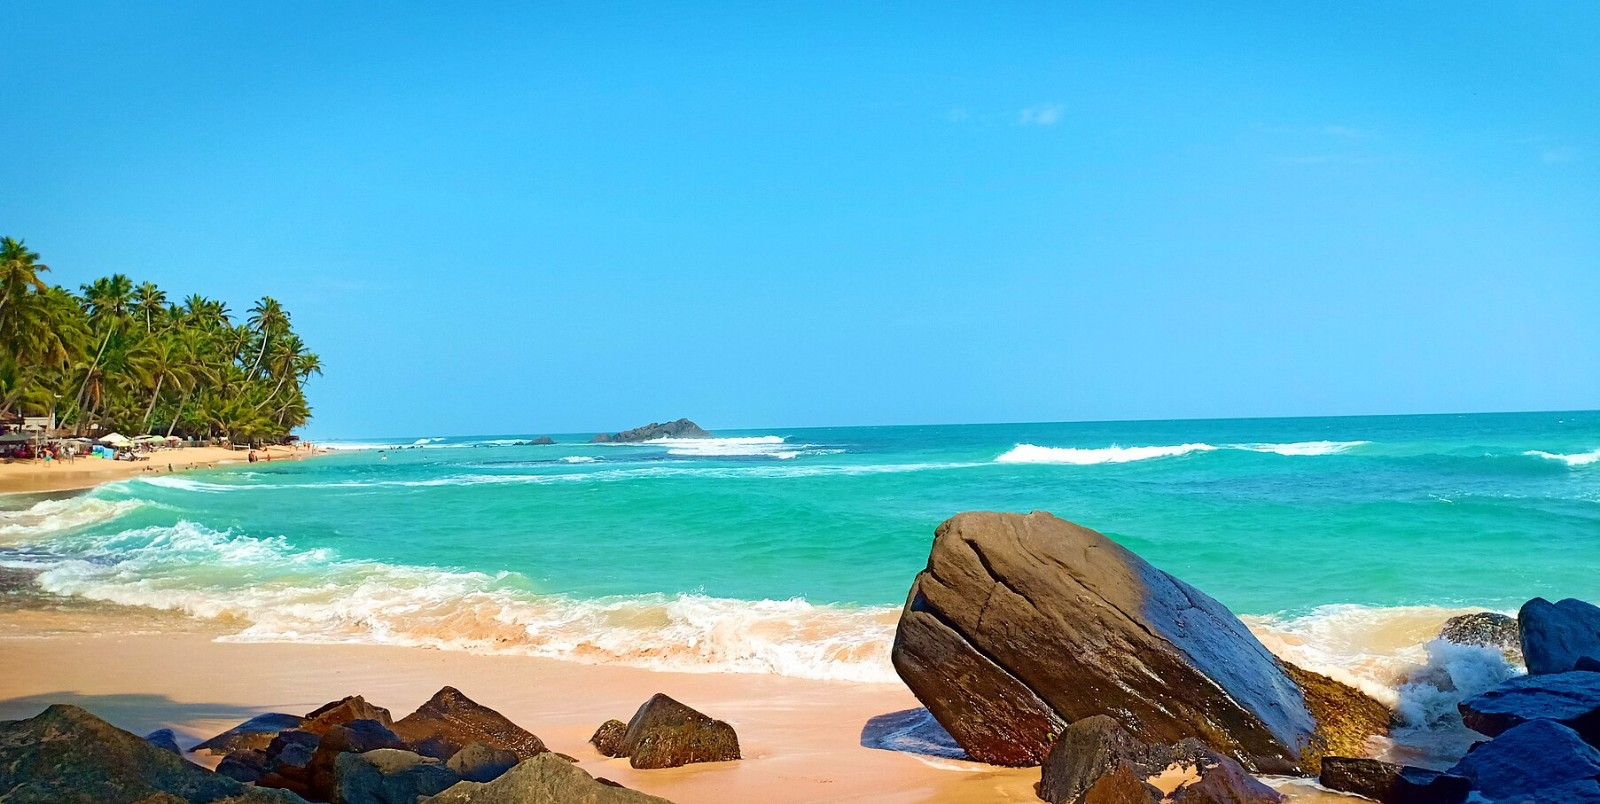
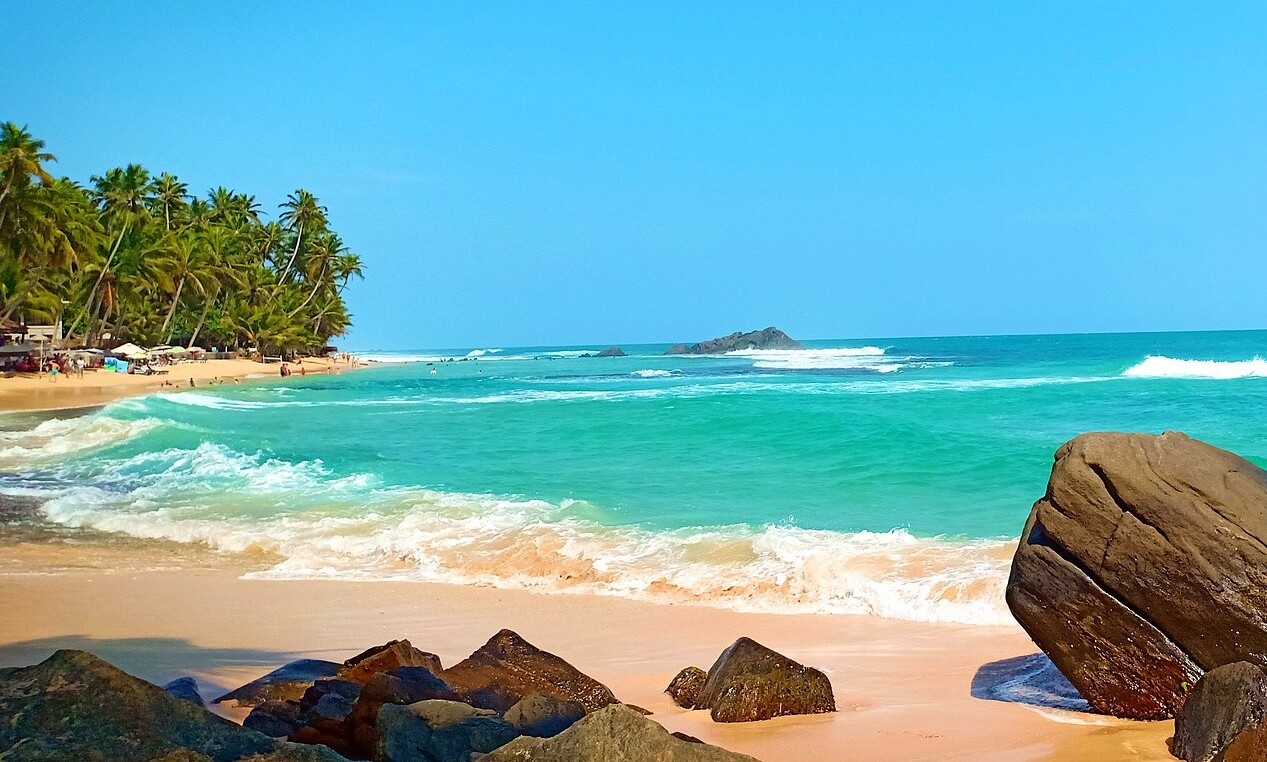
Tighten framing on Hero beach palm surf and lush tea bush panels

diff --git a/styles/main.css b/styles/main.css
@@ -788,9 +788,9 @@
 
   .hero__panel--sigiriya img { object-position: 50% 42%; }
   .hero__panel--ella img { object-position: 36% 48%; }
-  .hero__panel--mirissa img { object-position: 32% 54%; }
+  .hero__panel--mirissa img { object-position: 24% 58%; }
   .hero__panel--elephants img { object-position: 28% 44%; }
-  .hero__panel--tea img { object-position: 50% 62%; }
+  .hero__panel--tea img { object-position: 50% 60%; }
 
   @media (hover: hover) {
     .hero__panel:hover img {
